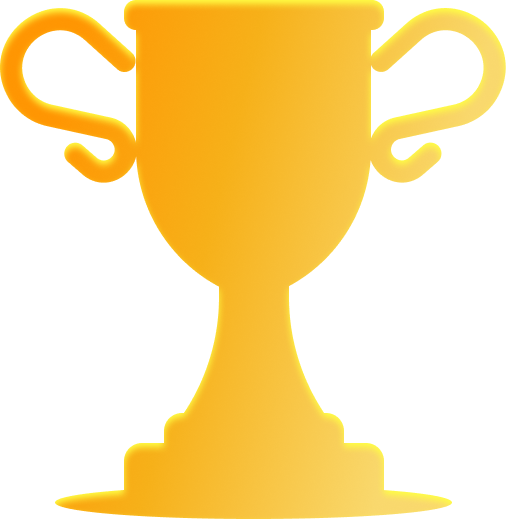
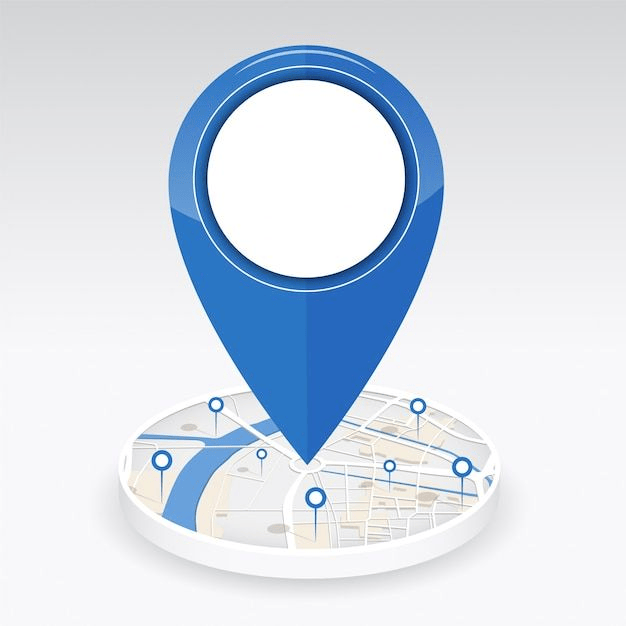
feat: implement location floorplan upload and mobile display modal

diff --git a/native/src/components/bottomSheets/LocationBottomSheet.tsx b/native/src/components/bottomSheets/LocationBottomSheet.tsx
@@ -16,7 +16,7 @@ import BottomSheet, {
   BottomSheetBackdrop,
   BottomSheetView,
 } from "@gorhom/bottom-sheet";
-import { Clock, MapPin, Navigation, Star } from "lucide-react-native";
+import { Clock, MapPin, Navigation, Star, X } from "lucide-react-native";
 import React, {
   forwardRef,
   useCallback,
@@ -27,6 +27,8 @@ import React, {
 import {
   ActivityIndicator,
   Image,
+  Modal,
+  SafeAreaView,
   ScrollView,
   StyleSheet,
   Text,
@@ -40,6 +42,7 @@ type Props = {
     type: string;
     image?: string;
     description?: string;
+    floorplan?: string;
     coordinate: {
       latitude: number;
       longitude: number;
@@ -73,10 +76,13 @@ const LocationBottomSheet = forwardRef<BottomSheet, Props>(
     const snapPoints = useMemo(() => ["30%", "55%"], []);
 
     const [imageLoading, setImageLoading] = useState(true);
+    const [showFloorplanModal, setShowFloorplanModal] = useState(false);
 
     useEffect(() => {
       setImageLoading(true);
     }, [location?.image]);
+
+    const hasFloorplan = !!location?.floorplan && location.floorplan !== "";
 
     const backdrop = useCallback(
       (props: any) => (
@@ -224,6 +230,33 @@ const LocationBottomSheet = forwardRef<BottomSheet, Props>(
               </TouchableOpacity>
             </View>
 
+            {/* ── Floor Directions button ── */}
+            <View style={{ marginBottom: 12 }}>
+              <TouchableOpacity
+                style={[
+                  styles.floorBtn,
+                  {
+                    backgroundColor: hasFloorplan ? theme.primary + "15" : theme.surfaceAlt,
+                    borderColor: hasFloorplan ? theme.primary : theme.border,
+                    borderWidth: 1.5,
+                    opacity: hasFloorplan ? 1 : 0.5,
+                  },
+                ]}
+                onPress={() => hasFloorplan && setShowFloorplanModal(true)}
+                disabled={!hasFloorplan}
+              >
+                <MapPin size={16} color={hasFloorplan ? theme.primary : theme.textMuted} />
+                <Text
+                  style={[
+                    styles.floorBtnText,
+                    { color: hasFloorplan ? theme.primary : theme.textMuted },
+                  ]}
+                >
+                  Show Floor Directions
+                </Text>
+              </TouchableOpacity>
+            </View>
+
             {/* Image */}
             <View
               style={{
@@ -319,6 +352,39 @@ const LocationBottomSheet = forwardRef<BottomSheet, Props>(
             <View style={{ height: 24 }} />
           </ScrollView>
         </BottomSheetView>
+
+        <Modal
+          visible={showFloorplanModal}
+          transparent={false}
+          animationType="slide"
+          onRequestClose={() => setShowFloorplanModal(false)}
+        >
+          <SafeAreaView style={[styles.modalContainer, { backgroundColor: theme.surface }]}>
+            <View style={[styles.modalHeader, { borderBottomColor: theme.border }]}>
+              <Text style={[styles.modalTitle, { color: theme.text }]} numberOfLines={1}>
+                {location?.name} - Floor Directions
+              </Text>
+              <TouchableOpacity
+                onPress={() => setShowFloorplanModal(false)}
+                style={[styles.closeIconBtn, { backgroundColor: theme.surfaceAlt }]}
+              >
+                <X size={20} color={theme.text} />
+              </TouchableOpacity>
+            </View>
+            
+            <View style={styles.modalBody}>
+              {location?.floorplan ? (
+                <Image
+                  source={{ uri: location.floorplan }}
+                  style={styles.floorplanImage}
+                  resizeMode="contain"
+                />
+              ) : (
+                <Text style={{ color: theme.textMuted }}>No Floor Directions Available</Text>
+              )}
+            </View>
+          </SafeAreaView>
+        </Modal>
       </BottomSheet>
     );
   },
@@ -497,5 +563,53 @@ const styles = StyleSheet.create({
   organizer: {
     fontSize: 11,
     fontFamily: "PlusJakartaSans_400Regular",
+  },
+  floorBtn: {
+    flexDirection: "row",
+    alignItems: "center",
+    justifyContent: "center",
+    gap: 8,
+    paddingVertical: 12,
+    borderRadius: 12,
+    borderWidth: 1.5,
+    width: "100%",
+  },
+  floorBtnText: {
+    fontSize: 14,
+    fontFamily: "PlusJakartaSans_700Bold",
+  },
+  modalContainer: {
+    flex: 1,
+  },
+  modalHeader: {
+    flexDirection: "row",
+    alignItems: "center",
+    justifyContent: "space-between",
+    paddingHorizontal: 20,
+    paddingVertical: 16,
+    borderBottomWidth: 1,
+  },
+  modalTitle: {
+    fontSize: 16,
+    fontFamily: "PlusJakartaSans_700Bold",
+    flex: 1,
+    marginRight: 10,
+  },
+  closeIconBtn: {
+    width: 36,
+    height: 36,
+    borderRadius: 18,
+    alignItems: "center",
+    justifyContent: "center",
+  },
+  modalBody: {
+    flex: 1,
+    alignItems: "center",
+    justifyContent: "center",
+    padding: 10,
+  },
+  floorplanImage: {
+    width: "100%",
+    height: "100%",
   },
 });

diff --git a/admin/src/pages/Locations.tsx b/admin/src/pages/Locations.tsx
@@ -31,8 +31,10 @@ const Locations = () => {
     longitude: "",
     description: "",
     image: "",
+    floorplan: "",
   });
   const [uploading, setUploading] = useState(false);
+  const [uploadingFloorplan, setUploadingFloorplan] = useState(false);
 
   const fetchLocations = async () => {
     try {
@@ -59,6 +61,7 @@ const Locations = () => {
         longitude: loc.coordinate?.longitude || loc.longitude || "",
         description: loc.description || "",
         image: loc.image || "",
+        floorplan: loc.floorplan || "",
       });
     } else {
       setCurrentLocation(null);
@@ -69,6 +72,7 @@ const Locations = () => {
         longitude: "",
         description: "",
         image: "",
+        floorplan: "",
       });
     }
     setIsModalOpen(true);
@@ -121,6 +125,21 @@ const Locations = () => {
       alert("Upload failed");
     } finally {
       setUploading(false);
+    }
+  };
+
+  const handleFloorplanUpload = async (e) => {
+    const file = e.target.files[0];
+    if (!file) return;
+    setUploadingFloorplan(true);
+    try {
+      const url = await uploadImage(file);
+      setFormData((prev) => ({ ...prev, floorplan: url }));
+    } catch (error) {
+      console.error("Floorplan upload failed", error);
+      alert("Floorplan upload failed");
+    } finally {
+      setUploadingFloorplan(false);
     }
   };
 
@@ -464,6 +483,54 @@ const Locations = () => {
 
                 <div className="md:col-span-2">
                   <label className="block text-sm font-medium text-slate-700 mb-1">
+                    Floorplan Upload (PNG format preferred)
+                  </label>
+                  <div className="flex items-center space-x-4">
+                    <div className="h-16 w-16 bg-slate-100 rounded-xl border-2 border-dashed border-slate-300 flex items-center justify-center overflow-hidden">
+                      {formData.floorplan ? (
+                        <img
+                          src={formData.floorplan}
+                          alt="Floorplan Preview"
+                          className="h-full w-full object-cover"
+                        />
+                      ) : (
+                        <ImageIcon className="h-6 w-6 text-slate-400" />
+                      )}
+                    </div>
+                    <div className="flex-1">
+                      <input
+                        type="file"
+                        accept="image/png, image/*"
+                        onChange={handleFloorplanUpload}
+                        className="block w-full text-sm text-slate-500 file:mr-4 file:py-2 file:px-4 file:rounded-full file:border-0 file:text-sm file:font-semibold file:bg-primary-50 file:text-primary-700 hover:file:bg-primary-100 transition-colors"
+                      />
+                      {uploadingFloorplan && (
+                        <span className="text-xs text-primary-600 mt-2 block">
+                          Uploading floorplan...
+                        </span>
+                      )}
+                    </div>
+                  </div>
+                  {formData.floorplan && (
+                    <div className="mt-2 flex items-center justify-between bg-slate-50 px-3 py-2 rounded-xl border border-slate-200">
+                      <span className="text-xs text-slate-500 font-medium truncate max-w-[20rem] md:max-w-md">
+                        {formData.floorplan.startsWith("data:")
+                          ? "✓ Floorplan stored in database (Base64)"
+                          : formData.floorplan}
+                      </span>
+                      <button
+                        type="button"
+                        onClick={() => setFormData({ ...formData, floorplan: "" })}
+                        className="text-xs text-red-600 hover:text-red-800 font-semibold transition-colors"
+                      >
+                        Remove Floorplan
+                      </button>
+                    </div>
+                  )}
+                </div>
+
+                <div className="md:col-span-2">
+                  <label className="block text-sm font-medium text-slate-700 mb-1">
                     Description
                   </label>
                   <textarea
@@ -487,7 +554,7 @@ const Locations = () => {
                 </button>
                 <button
                   type="submit"
-                  disabled={uploading}
+                  disabled={uploading || uploadingFloorplan}
                   className="px-4 py-2 border border-transparent rounded-xl shadow-sm text-sm font-medium text-white bg-primary-600 hover:bg-primary-700 disabled:opacity-50"
                 >
                   {currentLocation ? "Update Location" : "Save Location"}

diff --git a/admin/src/services/api.ts b/admin/src/services/api.ts
@@ -33,6 +33,7 @@ export interface Location {
   image: string;
   description: string;
   approval_status: string;
+  floorplan?: string;
 }
 
 export interface Event {

diff --git a/native/src/hooks/getLocation.ts b/native/src/hooks/getLocation.ts
@@ -10,6 +10,7 @@ type Location = {
   };
   type: string;
   image?: string;
+  floorplan?: string;
 };
 
 const useLocations = () => {

diff --git a/native/src/services/api.ts b/native/src/services/api.ts
@@ -31,6 +31,7 @@ type Location = {
   };
   type: string;
   image?: string;
+  floorplan?: string;
 };
 
 const api = {

diff --git a/joshua_backend/app.py b/joshua_backend/app.py
@@ -709,9 +709,9 @@ def get_locations():
     cursor = mysql.connection.cursor()
     try:
         if all_locations:
-            cursor.execute('SELECT id, name, type, latitude, longitude, image, description, approval_status FROM locations')
+            cursor.execute('SELECT id, name, type, latitude, longitude, image, description, approval_status, floorplan FROM locations')
         else:
-            cursor.execute("SELECT id, name, type, latitude, longitude, image, description, approval_status FROM locations WHERE approval_status = 'approved'")
+            cursor.execute("SELECT id, name, type, latitude, longitude, image, description, approval_status, floorplan FROM locations WHERE approval_status = 'approved'")
         rows = cursor.fetchall()
         cursor.close()
         
@@ -727,7 +727,8 @@ def get_locations():
                 },
                 "image": row[5],
                 "description": row[6],
-                "approval_status": row[7]
+                "approval_status": row[7],
+                "floorplan": row[8]
             })
             
         return jsonify(locations_list), 200
@@ -748,9 +749,9 @@ def create_location(current_user):
     cursor = mysql.connection.cursor()
     try:
         cursor.execute('''
-            INSERT INTO locations (name, type, latitude, longitude, image, description, approval_status)
-            VALUES (%s, %s, %s, %s, %s, %s, 'approved')
-        ''', (data.get('name'), data.get('type'), data.get('latitude'), data.get('longitude'), data.get('image'), data.get('description')))
+            INSERT INTO locations (name, type, latitude, longitude, image, description, approval_status, floorplan)
+            VALUES (%s, %s, %s, %s, %s, %s, 'approved', %s)
+        ''', (data.get('name'), data.get('type'), data.get('latitude'), data.get('longitude'), data.get('image'), data.get('description'), data.get('floorplan')))
         mysql.connection.commit()
         loc_id = cursor.lastrowid
         cursor.close()
@@ -767,9 +768,9 @@ def update_location(current_user, id):
     try:
         cursor.execute('''
             UPDATE locations 
-            SET name=%s, type=%s, latitude=%s, longitude=%s, image=%s, description=%s
+            SET name=%s, type=%s, latitude=%s, longitude=%s, image=%s, description=%s, floorplan=%s
             WHERE id=%s
-        ''', (data.get('name'), data.get('type'), data.get('latitude'), data.get('longitude'), data.get('image'), data.get('description'), id))
+        ''', (data.get('name'), data.get('type'), data.get('latitude'), data.get('longitude'), data.get('image'), data.get('description'), data.get('floorplan'), id))
         mysql.connection.commit()
         cursor.close()
         log_activity(user_id=current_user.get('id'), user_email=current_user.get('email'), action="Update Location", details=f"Admin updated location ID: {id} ('{data.get('name')}')")

diff --git a/joshua_backend/alter_locations_floorplan.py b/joshua_backend/alter_locations_floorplan.py
@@ -1,0 +1,34 @@
+import MySQLdb
+
+# Remote Railway credentials
+DB_HOST = "acela.proxy.rlwy.net"
+DB_PORT = 56874
+DB_USER = "root"
+DB_PASS = "ffyitbUPQyiUlWTaFKXvgeoYqcKPOJja"
+DB_NAME = "railway"
+
+def run_migration():
+    try:
+        print(f"Connecting to remote Railway database {DB_HOST}:{DB_PORT}...")
+        conn = MySQLdb.connect(
+            host=DB_HOST,
+            user=DB_USER,
+            passwd=DB_PASS,
+            db=DB_NAME,
+            port=DB_PORT
+        )
+        cursor = conn.cursor()
+        print("Connected successfully!")
+        
+        print("Executing ALTER TABLE to add 'floorplan' column...")
+        cursor.execute("ALTER TABLE locations ADD COLUMN floorplan LONGTEXT DEFAULT NULL")
+        conn.commit()
+        print("[✓] Successfully added 'floorplan' column to remote 'locations' table.")
+        
+        cursor.close()
+        conn.close()
+    except Exception as e:
+        print(f"[✗] Migration failed: {e}")
+
+if __name__ == "__main__":
+    run_migration()
